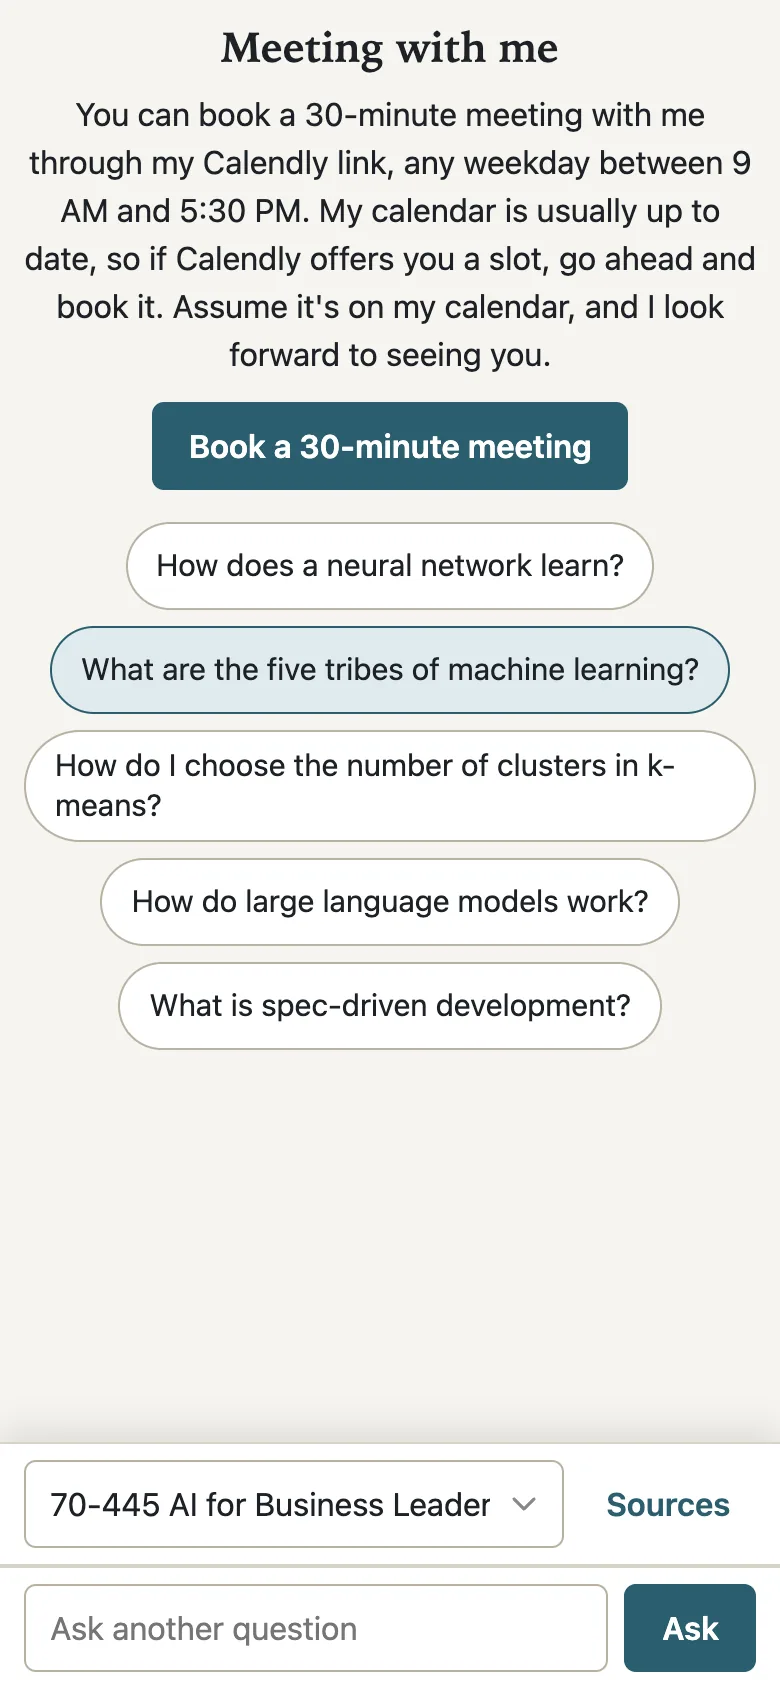
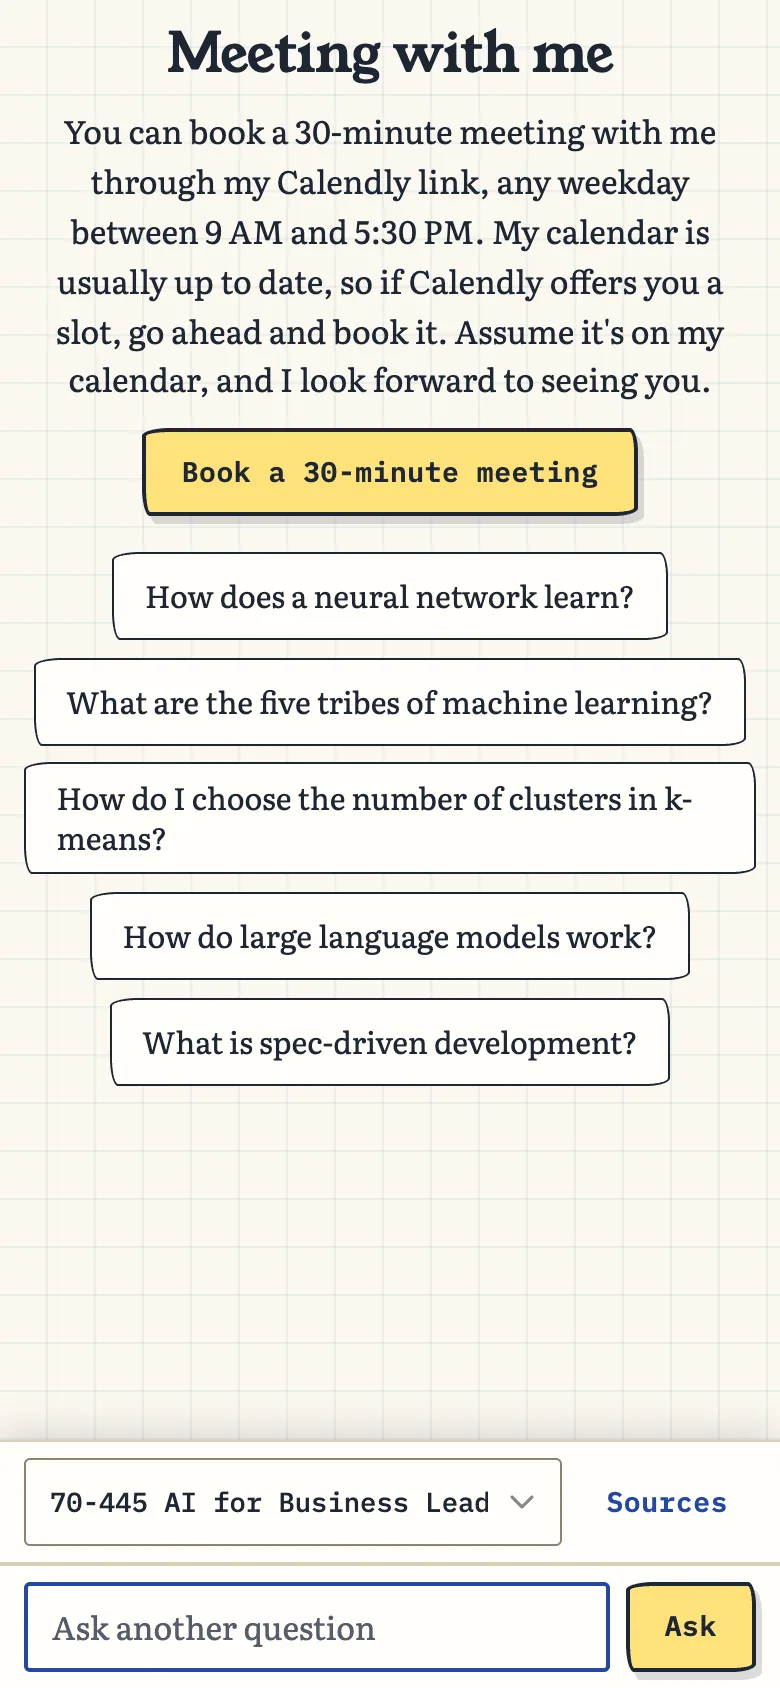
Screenshots: retake the live student page and Settings shots in the collier.phd look
All 22 live-site shots in docs/screenshots (12 student page, 10 Settings) are
retaken from https://faculty-twin.vercel.app after the restyle, with the same
file names, sizes, questions and slides. The student shots were taken while open
access was on, so no passcode was used; the Settings shots used an admin cookie
from a scripted API login. Every /api call carried X-FT-Source: smoke and no
/api/event was sent.

The README drops the "Older look" note, records the live model (OpenRouter
anthropic/claude-opus-5.5) and voice as shown in Settings, and updates each
shot's description (read-along narration box, nine prompts, three thresholds,
the Canvas answer now model-written). The read-along, mock and hand-off shots
are unchanged.

Claude-Session: https://claude.ai/code/session_01HVmjg8TUBHLmg3PzPAQ4yn

Changed region(s): [[0.0308, 0.0, 0.9538, 0.6469], [0.0308, 0.8626, 0.9846, 1.0], [0.9538, 0.4621, 0.9846, 0.4929]]

diff --git a/docs/screenshots/README.md b/docs/screenshots/README.md
@@ -1,51 +1,51 @@
 # Screenshots
 
-*Taken by Claude Code (Claude Opus 5.5) on October 8, 2026, from the live site https://faculty-twin.vercel.app.*
-
-> **Older look (Oct 8, collier.phd restyle).** The student page and Settings now use the look of collier.phd (docs/SPEC.md, "Look and feel"). The shots from the live site below were taken before that change and still show the old look until they are retaken after the restyle is deployed. The mock shots at the bottom show the new look.
+*Taken by Claude Code (Claude Opus 5.5) on October 8, 2026, from the live site https://faculty-twin.vercel.app, in the collier.phd look (docs/SPEC.md, "Look and feel").*
 
 ## How they were taken
 
 - Headless Google Chrome driven by Playwright. Desktop shots are 1440 x 900; phone shots are 390 x 844 at 2x (780 x 1688 pixels). Light mode, except the one dark-mode shot.
-- The browser logged in through the API before any page opened, so the passcode screen never appears in a shot. Every `/api/*` call carried `X-FT-Source: smoke`, so these questions are logged as test traffic and left out of the student numbers in Settings > Analytics. Usage events (`/api/event`) were not sent.
-- Live settings at the time: narration model **Anthropic `claude-opus-5-5`**; voice **the server default, Ben's ElevenLabs voice clone** (labeled "AI voice made from my recordings."), with the fallback set to captions only. Audio played muted in the headless browser.
+- The student shots were taken while open access was on (Settings > Limits and access > "Open to everyone (no passcode)"), so a fresh browser went straight to the idle screen and no passcode was used. For the Settings shots, a script logged in through `/api/admin/login` and the admin cookie was copied into the browser, so the Settings login never appears in a shot.
+- Every `/api/*` call carried `X-FT-Source: smoke`, so these questions are logged as test traffic and left out of the student numbers in Settings > Analytics. Usage events (`/api/event`) were answered inside the browser and never sent.
+- Live settings at the time, as shown in Settings: narration model **OpenRouter `anthropic/claude-opus-5.5`**; voice **the server default, Ben's ElevenLabs voice clone** (labeled "AI voice made from my recordings."), with the fallback set to captions only. Audio played muted in the headless browser.
 - Saved as WebP, each under 300 KB.
 
 ## What was left out on purpose
 
-- Nothing from the passcode field, the Activity question log, the eval question set or run detail rows, `.env`, or any provider dashboard.
+- Nothing from the passcode screen or any passcode field (the student page shots needed none, and the Settings shots skip the change-passcode field), the Activity question log, the eval question set or run detail rows, `.env`, or any provider dashboard.
 - Slides were picked from answers whose slides carry none of the pipeline's caution flags (third-party source, copyright notice, image-only slides, possible student names, "In the News", student presentations, the private Tesla vs Waymo case) and were then checked by eye for names, faces and third-party images. Two shots are cropped so a slide with a textbook figure or clip art does not show (see the notes below).
 - Analytics shots show the default view with test traffic hidden and are cropped to spend, tokens and the topic tree: no panel that lists question text.
+- The Evals shots show the report card and run cards only (aggregates). No run's "Open results" was opened.
 
 ## The student page
 
 | File | What it shows | Slide shown |
 | --- | --- | --- |
-| [student-idle-desktop.webp](student-idle-desktop.webp) | The idle screen: course filter, question box, suggested-question chips, the voice disclosure | none |
-| [walkthrough-kmeans-desktop.webp](walkthrough-kmeans-desktop.webp) | A suggested question ("How do I choose the number of clusters in k-means?") mid-walkthrough, paused: the slide, the caption (the narration sentence being spoken), the controls, the "Where this is in the course" source card, and the sources list in the chat dock | 70445-s05-042 |
-| [class-clip-desktop.webp](class-clip-desktop.webp) | "Watch me explain this in class": a frame of the class clip playing in place of the slide (presenter view of the same slide), with the "Recorded in class ... (my real voice, not the AI voice)" label | 70445-s05-042 (clip frame) |
+| [student-idle-desktop.webp](student-idle-desktop.webp) | The idle screen: course tabs, question box, suggested-question chips, the voice disclosure | none |
+| [walkthrough-kmeans-desktop.webp](walkthrough-kmeans-desktop.webp) | A suggested question ("How do I choose the number of clusters in k-means?") mid-walkthrough, paused: the slide, the read-along narration box (the word being spoken is highlighted), the controls, and the sources list in the chat dock. The "Where this is in the course" card sits just below the fold | 70445-s05-042 |
+| [class-clip-desktop.webp](class-clip-desktop.webp) | "Watch me explain this in class": a frame of the class clip playing in place of the slide (presenter view of the same slide), with the "Recorded in class on Sep 8, 2026 (my real voice, not the AI voice)" label | 70445-s05-042 (clip frame) |
 | [walkthrough-kmeans-dark-desktop.webp](walkthrough-kmeans-dark-desktop.webp) | The same answer in dark mode, segment 3 of 5 | 70445-s05-053 |
-| [walkthrough-end-sources-desktop.webp](walkthrough-end-sources-desktop.webp) | The chat dock after the last segment: the sources list (course, session, date, slide) and two follow-up questions. Cropped to the dock because the last slide of this answer has clip art | thumbnails only (70445-s05-042, 044, 053, 054, 056) |
-| [code-panel-desktop.webp](code-panel-desktop.webp) | A typed question ("What are frames and semantic networks in knowledge representation?") on a segment with notebook code: the "Code from class" panel, the clip button and the caption. Cropped below the slide, which reproduces a textbook figure | none (segment of 70445-s03-027) |
+| [walkthrough-end-sources-desktop.webp](walkthrough-end-sources-desktop.webp) | The chat dock after the last segment: the sources list (course, session, date, slide) and two follow-up questions under "Keep going". Cropped to the dock because the last slide of this answer has clip art | thumbnails only (70445-s05-042, 044, 053, 054, 056) |
+| [code-panel-desktop.webp](code-panel-desktop.webp) | A typed question ("What are frames and semantic networks in knowledge representation?") on a segment with notebook code: the "Code from class" panel, the clip button and the start of the narration box. Cropped below the slide, which reproduces a textbook figure | none (segment of 70445-s03-027) |
 | [not-covered-desktop.webp](not-covered-desktop.webp) | An off-topic question ("Who won the Stanley Cup last year?") declined with suggested chips | none |
 | [faq-office-hours-desktop.webp](faq-office-hours-desktop.webp) | A course FAQ answer ("What are your office hours?"): Ben's written answer and the "Book a 30-minute meeting" Calendly button | none |
-| [canvas-course-info-desktop.webp](canvas-course-info-desktop.webp) | A "From Canvas" course-info card (45-884, "How do I get free access to O'Reilly books?") with buttons that open the Canvas pages. This answer is the fallback text (the first sentences of the top Canvas chunk), not a model-written reply; two wordings gave the same result | none |
+| [canvas-course-info-desktop.webp](canvas-course-info-desktop.webp) | A "From Canvas" course-info card (45-884, "How do I get free access to O'Reilly books?") with buttons that open the Canvas pages. The answer was written by the live model from the Canvas page (it runs past the 80-word limit of the fallback text, so it is not the fallback) | none |
 | [student-idle-phone.webp](student-idle-phone.webp) | The idle screen on a phone | none |
-| [walkthrough-tfidf-phone.webp](walkthrough-tfidf-phone.webp) | "What is TF-IDF and why is it useful?" on a phone, segment 2 of 2: slide, source card, caption, controls, and the docked course filter and question bar | 45884-s03-043 |
+| [walkthrough-tfidf-phone.webp](walkthrough-tfidf-phone.webp) | "What is TF-IDF and why is it useful?" on a phone, segment 2 of 2: slide, source card, narration box, controls, and the docked course filter and question bar | 45884-s03-043 |
 | [faq-office-hours-phone.webp](faq-office-hours-phone.webp) | The FAQ card on a phone | none |
 
 ## The Settings page (admin only)
 
 | File | What it shows |
 | --- | --- |
-| [settings-model.webp](settings-model.webp) | Model: provider, curated model list, model id, "Test this model" |
+| [settings-model.webp](settings-model.webp) | Model: provider (OpenRouter), the OpenRouter model list with prices, model id `anthropic/claude-opus-5.5`, "Test this model", and "Live now" |
 | [settings-voice-clone.webp](settings-voice-clone.webp) | Voice: the explainer, what students see now, and the "My voice clone" group (costs money) |
 | [settings-voice-free.webp](settings-voice-free.webp) | Voice: the free Microsoft voices, Server default and Captions only, and the fallback setting |
-| [settings-thresholds.webp](settings-thresholds.webp) | Limits and access > Answer thresholds: slide 0.52 and course info 0.55, both "my code default", with the explainer and change history |
-| [settings-prompts-list.webp](settings-prompts-list.webp) | Prompts: the warning, the five prompts with Default badges, and the narration prompt open in the editor |
+| [settings-thresholds.webp](settings-thresholds.webp) | Limits and access > Answer thresholds: slide 0.52, course info 0.55 and course-info margin 0.05, all "my code default", with the explainer and change history |
+| [settings-prompts-list.webp](settings-prompts-list.webp) | Prompts: the warning, the nine prompts with Default badges, and the narration prompt open in the editor |
 | [settings-prompt-editor-diff.webp](settings-prompt-editor-diff.webp) | Prompts: an unsaved one-word edit ("warm,") compared with the built-in default, word by word. Not saved |
 | [settings-evals-report-card.webp](settings-evals-report-card.webp) | Evals: the report card chart (pass rate per answering model, run by run, axis from zero) |
-| [settings-evals-run-cards.webp](settings-evals-run-cards.webp) | Evals: the three run cards (October 7 twin run, the excluded first attempt, the October 5 baseline), aggregates only |
+| [settings-evals-run-cards.webp](settings-evals-run-cards.webp) | Evals: the same three run cards as before (October 7 twin run, the excluded first attempt, the October 5 baseline), aggregates only. The newer five-model runs from October 8 sit above them on the page |
 | [settings-analytics-spend-tokens.webp](settings-analytics-spend-tokens.webp) | Analytics, last 30 days, test traffic hidden: tiles, estimated spend over time, tokens by model and purpose, voice characters, embeddings |
 | [settings-analytics-topic-tree.webp](settings-analytics-topic-tree.webp) | Analytics: questions by course, session and slide (from each answered question's top slide) |
 
